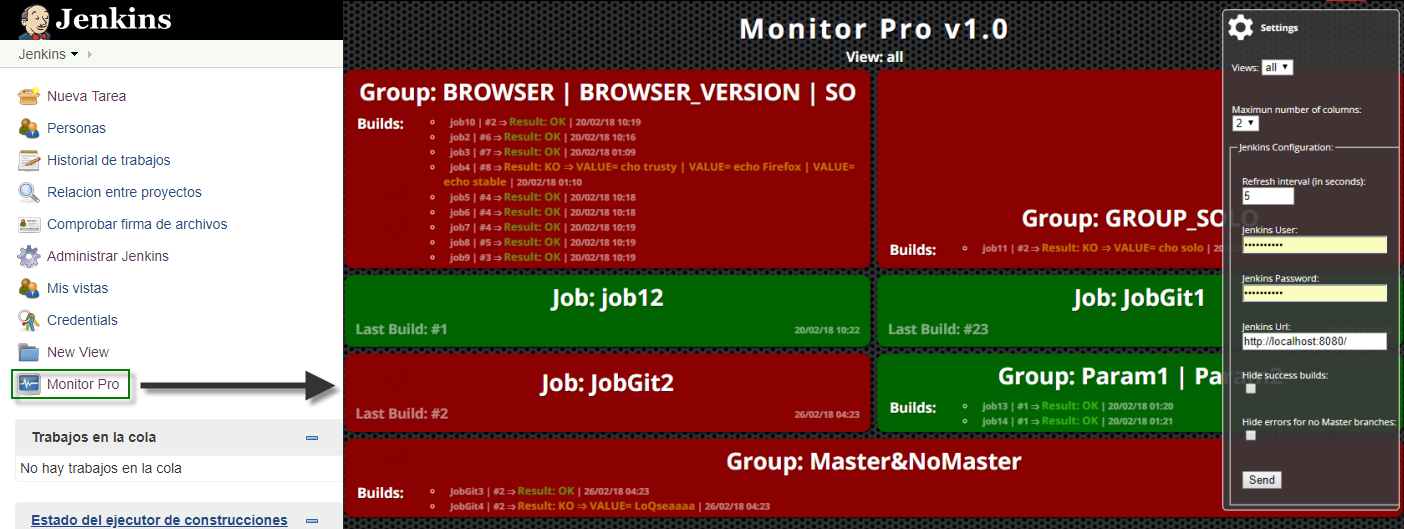
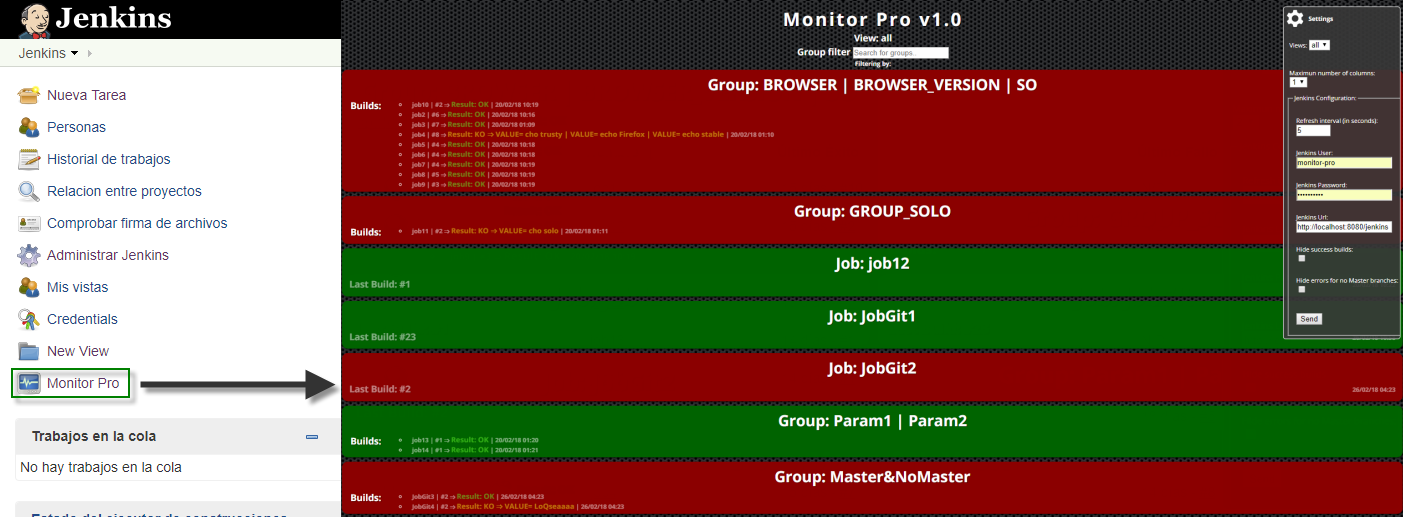
Filter option

diff --git a/src/app/jobs-basic-view/jobsBasicView.component.ts b/src/app/jobs-basic-view/jobsBasicView.component.ts
@@ -28,9 +28,25 @@ export class JobsBasicViewComponent implements OnInit, OnDestroy {
   jobsViewSelected: JobsBasicViewModel;
   timer: Observable<number>;
   subscription: Subscription;
+  filteredJobsModel: Job[] = [];
+  _listFilter = '';
+
+  get listFilter(): string {
+    return this._listFilter;
+  }
+  set listFilter(value: string) {
+    this._listFilter = value;
+    this.filteredJobsModel = this.listFilter ? this.performFilter(this.listFilter) : this.jobsModel;
+  }
 
   constructor(private jenkinsService: JenkinsService) {
     this.jobsViewSelected = new JobsBasicViewModel(undefined, 'No view selected jet.');
+  }
+
+  performFilter(filterBy: string): Job[] {
+    filterBy = filterBy.toLocaleLowerCase();
+    return this.jobsModel.filter((job: Job) =>
+      job.name.toLocaleLowerCase().indexOf(filterBy) !== -1);
   }
 
   /**
@@ -56,7 +72,10 @@ export class JobsBasicViewComponent implements OnInit, OnDestroy {
   public initLoadJobsStatus(url: string) {
 
     this.jenkinsService.getJobsStatus(url).subscribe(
-      jobsModelAux => this.jobsModel = jobsModelAux,
+      jobsModelAux => {
+        this.jobsModel = jobsModelAux,
+        this.filteredJobsModel = this.listFilter ? this.performFilter(this.listFilter) : this.jobsModel;
+      },
       error => console.log('Error retriving data')
     );
 
@@ -69,7 +88,10 @@ export class JobsBasicViewComponent implements OnInit, OnDestroy {
     this.subscription = this.timer
       .subscribe(() => {
         this.jenkinsService.getJobsStatus(url).subscribe(
-          jobsModelAux => this.jobsModel = jobsModelAux,
+          jobsModelAux => {
+            this.jobsModel = jobsModelAux,
+            this.filteredJobsModel = this.listFilter ? this.performFilter(this.listFilter) : this.jobsModel;
+          },
           error => console.log('Error retriving data')
         );
     });

diff --git a/src/app/jobs-basic-view/jobsBasicView.component.html b/src/app/jobs-basic-view/jobsBasicView.component.html
@@ -1,4 +1,10 @@
 <h2>View: {{jobsViewSelected.name}}</h2>
+<h2>Group filter 
+  <input type="text" placeholder="Search for groups.." [(ngModel)]='listFilter' />
+</h2>
+<h4>
+  Filtering by: {{listFilter}}
+</h4>
 <header>
   <menu-config (onSelectedView)="loadViewSelected($event)" (onSelectNumColumn)="setColumnsLayout($event)" (onSetPollingInterval)="setPollingInterval($event)"  (onUnsuscribePrevious)="unsuscribePrevious($event)" [urlJenkins]="urlJenkins">Configuration Menu</menu-config>
 </header>
@@ -6,7 +12,7 @@
 <div>
   <!-- Jobs List -->
   <ul id="widgets" [class] = "viewConfig.classColumn">
-    <li *ngFor="let jobData of jobsModel" [ngClass]="jobData.getClasses()">
+    <li *ngFor="let jobData of filteredJobsModel" [ngClass]="jobData.getClasses()">
       <job  [jobModel]="jobData"></job>
     </li>
   </ul>

diff --git a/src/app/app.component.html b/src/app/app.component.html
@@ -2,5 +2,4 @@
   {{title}}
 </h1>
 </header>
-
 <jobsBasicView [urlJenkins]="urlJenkins"></jobsBasicView>

diff --git a/README.md b/README.md
@@ -13,6 +13,7 @@
   - Group by parameter for easier viewing.
   - Option to hide jobs finished successfully.
   - Option to show as success the jobs run from a branch different to Master branch. 
+  - Filter by Group/Job name
   ![Features](doc/img.png)
   
 # Installation
